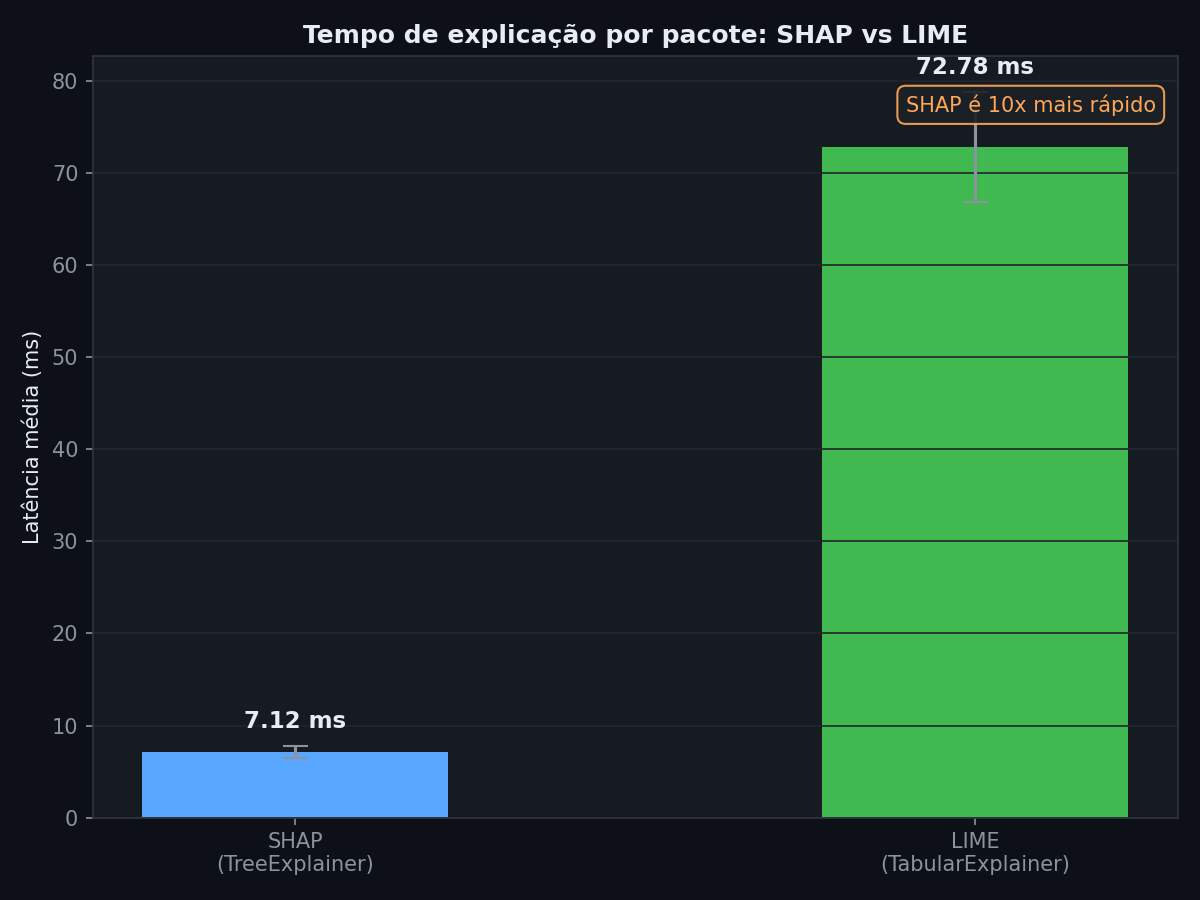
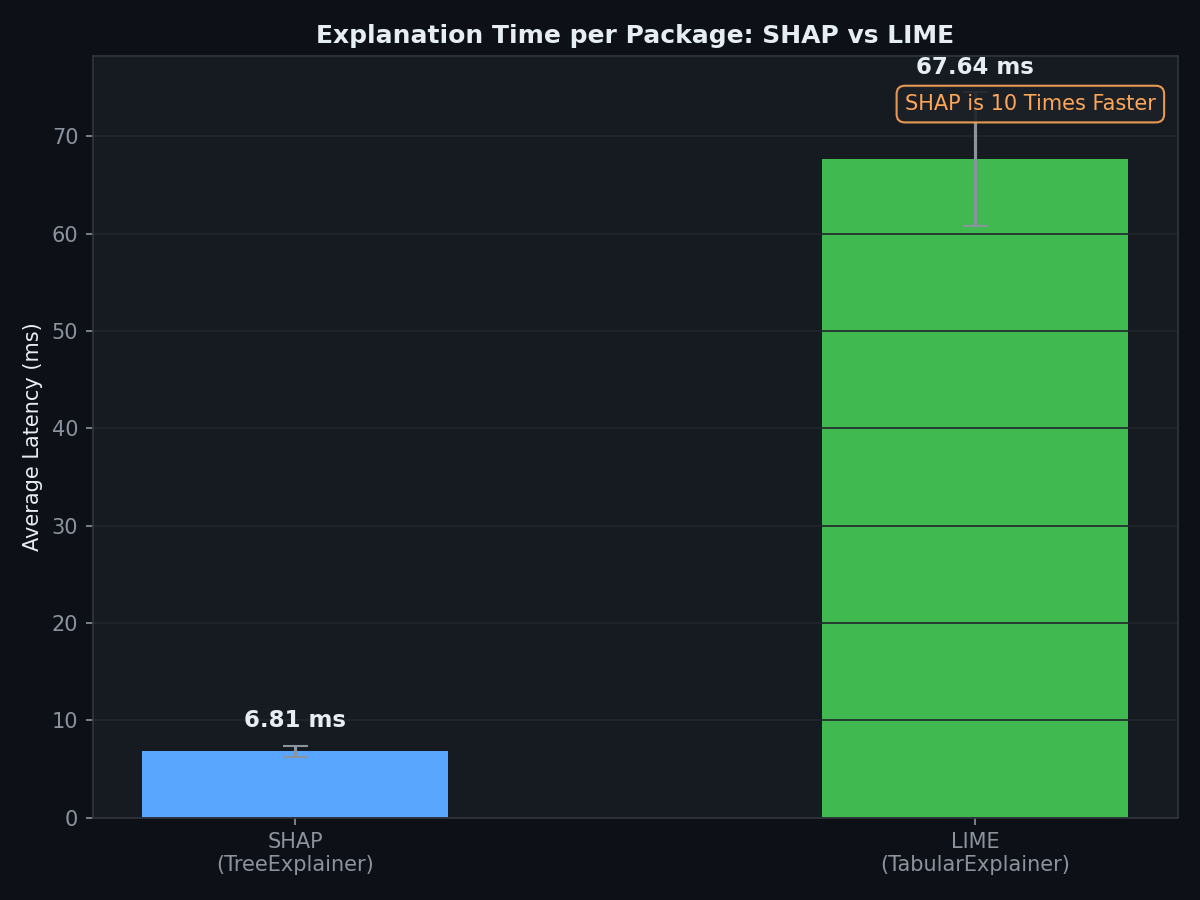
Refactor phase 2 and 3 scripts: update text to English, add new adversarial analysis, and enhance metrics output

diff --git a/fase3_adversarial.py b/fase3_adversarial.py
@@ -1,0 +1,271 @@
+import os, joblib
+import numpy as np
+import pandas as pd
+import shap
+import matplotlib
+matplotlib.use("Agg")
+import matplotlib.pyplot as plt
+import matplotlib.gridspec as gridspec
+import torch
+import torch.nn as nn
+from torch.utils.data import DataLoader, TensorDataset
+from sklearn.metrics import accuracy_score
+from art.estimators.classification import PyTorchClassifier
+from art.attacks.evasion import FastGradientMethod
+
+# ──────────────────────────────────────────────────────────────────────────────
+#  1. CONFIGURAÇÕES INICIAIS E DIRETÓRIOS
+#     Define sementes para reprodutibilidade e garante a pasta de resultados.
+# ──────────────────────────────────────────────────────────────────────────────
+
+os.makedirs("results", exist_ok = True)
+
+RANDOM_STATE = 42
+EPS = 0.05 # Magnitude da perturbação (Epsilon).
+
+# Fixa as sementes para garantir que os resultados sejam consistentes em cada execução.
+torch.manual_seed(RANDOM_STATE)
+np.random.seed(RANDOM_STATE)
+
+# ──────────────────────────────────────────────────────────────────────────────
+#  2. CARREGAMENTO DE DADOS E MODELOS
+#     Recupera o modelo XGBoost e os datasets processados na Fase 1.
+# ──────────────────────────────────────────────────────────────────────────────
+
+model = joblib.load("models/xgb_baseline.pkl")
+top15 = joblib.load("models/top15_features.pkl")
+
+X_train = pd.read_csv("data/processed/X_train.csv")
+X_test = pd.read_csv("data/processed/X_test.csv")
+y_train = pd.read_csv("data/processed/y_train.csv").iloc[:, 0]
+y_test = pd.read_csv("data/processed/y_test.csv").iloc[:, 0]
+
+N_FEATURES = X_train.shape[1]
+
+# ──────────────────────────────────────────────────────────────────────────────
+#  3. DEFINIÇÃO DO MODELO SURROGATE (PyTorch)
+#     O FGSM precisa de gradientes. Como o XGBoost não os fornece, treinamos 
+#     esta rede neuronal (MLP) para imitar o comportamento do classificador.
+# ──────────────────────────────────────────────────────────────────────────────
+
+class SurrogateMLP(nn.Module):
+    def __init__(self, n_features: int):
+        super().__init__()
+        self.net = nn.Sequential(
+            nn.Linear(n_features, 128), nn.ReLU(),
+            nn.Linear(128, 64), nn.ReLU(),
+            nn.Linear(64, 32), nn.ReLU(),
+            nn.Linear(32, 2)
+        )
+
+    def forward(self, x: torch.Tensor) -> torch.Tensor:
+        return self.net(x)
+
+surrogate = SurrogateMLP(N_FEATURES)
+
+# Conversão dos dados para Tensores do PyTorch para treino.
+X_train_t = torch.tensor(X_train.values, dtype = torch.float32)
+y_train_t = torch.tensor(y_train.values, dtype = torch.long)
+X_test_t = torch.tensor(X_test.values, dtype = torch.float32)
+y_test_t = torch.tensor(y_test.values, dtype = torch.long)
+
+train_loader = DataLoader(
+    TensorDataset(X_train_t, y_train_t),
+    batch_size = 256,
+    shuffle = True
+)
+
+# ──────────────────────────────────────────────────────────────────────────────
+#  4. TREINO DO SURROGATE
+#     O objetivo é obter uma acurácia alta (>90%) para garantir a 
+#     transferibilidade dos ataques para o modelo original.
+# ──────────────────────────────────────────────────────────────────────────────
+
+criterion = nn.CrossEntropyLoss()
+optimizer = torch.optim.Adam(surrogate.parameters(), lr = 0.001)
+
+print("A treinar o surrogate MLP (PyTorch)...")
+surrogate.train()
+for epoch in range(20):
+    epoch_loss = 0.0
+    for xb, yb in train_loader:
+        optimizer.zero_grad()
+        loss = criterion(surrogate(xb), yb)
+        loss.backward()
+        optimizer.step()
+        epoch_loss += loss.item()
+    if (epoch + 1) % 5 == 0:
+        print(f"Época {epoch+1:02d}/20 — loss: {epoch_loss/len(train_loader):.4f}")
+
+# Avaliação da performance do surrogate no set de teste.
+surrogate.eval()
+with torch.no_grad():
+    logits = surrogate(X_test_t)
+    surr_preds = logits.argmax(dim = 1).numpy()
+
+surr_acc = accuracy_score(y_test.values, surr_preds)
+print(f"Surrogate accuracy: {surr_acc * 100:.2f}%")
+
+# ──────────────────────────────────────────────────────────────────────────────
+#  5. CONFIGURAÇÃO DO ATAQUE ADVERSARIAL (ART + FGSM)
+#     Utiliza a biblioteca ART para aplicar o Fast Gradient Sign Method.
+# ──────────────────────────────────────────────────────────────────────────────
+
+# Encapsula o modelo PyTorch para ser compatível com a ART.
+art_classifier = PyTorchClassifier(
+    model = surrogate,
+    loss = criterion,
+    optimizer = optimizer,
+    input_shape = (N_FEATURES,),
+    nb_classes = 2,
+    clip_values = (0.0, 1.0) # Garante que os valores permanecem no range do Min-Max Scaler.
+)
+
+# Configura o FGSM para gerar as perturbações baseadas no gradiente.
+fgsm_attack = FastGradientMethod(estimator = art_classifier, eps = EPS)
+print(f"FGSM configurado com eps = {EPS}")
+
+# Seleciona apenas os pacotes que são originalmente classificados como "Ataque".
+attack_indices = np.where(y_test.values == 1)[0]
+X_attacks = X_test.iloc[attack_indices].values.astype(np.float32)
+
+print("A gerar exemplos adversariais com FGSM...")
+X_adv = fgsm_attack.generate(x = X_attacks)
+X_adv = np.clip(X_adv, 0.0, 1.0)
+
+# ──────────────────────────────────────────────────────────────────────────────
+#  6. MÉTRICAS DE EVASÃO E ROBUSTEZ
+#     Verifica se o XGBoost (modelo alvo) é enganado ou se mantém a previsão.
+# ──────────────────────────────────────────────────────────────────────────────
+
+orig_preds = model.predict(X_attacks)
+adv_preds = model.predict(X_adv)
+
+# Identifica ataques que continuam a ser detectados e os que conseguiram evadir.
+still_attack = np.where((orig_preds == 1) & (adv_preds == 1))[0]
+evaded = np.where((orig_preds == 1) & (adv_preds == 0))[0]
+pct_mantidos = len(still_attack) / len(orig_preds) * 100
+pct_evasao = len(evaded) / len(orig_preds) * 100
+
+print(f"Ataques mantidos após FGSM: {len(still_attack)}/{len(orig_preds)} ({pct_mantidos:.1f}%)")
+print(f"Ataques eludidos (evasão): {len(evaded)}/{len(orig_preds)} ({pct_evasao:.1f}%)")
+
+if len(still_attack) == 0:
+    raise ValueError(
+        "Nenhum ataque mantido após FGSM. "
+        "Reduz EPS para 0.01 ou 0.02 e volta a correr."
+    )
+
+# ──────────────────────────────────────────────────────────────────────────────
+#  7. ANÁLISE XAI: SHAP REAL VS ADVERSARIAL
+#     Compara as explicações para um ataque que manteve a classificação original.
+# ──────────────────────────────────────────────────────────────────────────────
+
+shap_explainer = shap.TreeExplainer(model)
+
+# Escolhe o primeiro exemplo onde a classificação "Attack" não mudou.
+idx = still_attack[0]
+x_real = pd.DataFrame(X_attacks[idx:idx+1], columns = top15)
+x_adv = pd.DataFrame(X_adv[idx:idx+1], columns = top15)
+
+shap_real = shap_explainer(x_real)
+shap_adv = shap_explainer(x_adv)
+
+# Extrai as top features para verificar se a explicação foi manipulada.
+top5_real = (
+    pd.Series(np.abs(shap_real.values[0]), index = top15)
+    .sort_values(ascending = False)
+    .head(5)
+)
+top5_adv = (
+    pd.Series(np.abs(shap_adv.values[0]), index = top15)
+    .sort_values(ascending = False)
+    .head(5)
+)
+
+print("\nTop feature REAL: ", top5_real.index[0])
+print("Top feature ADVERSÁRIA: ", top5_adv.index[0])
+
+changed = top5_real.index[0] != top5_adv.index[0]
+print(f"\nExplicação mudou? {'SIM ✅' if changed else 'NÃO — tenta aumentar EPS'}")
+
+prob_real = model.predict_proba(x_real)[0][1]
+prob_adv = model.predict_proba(x_adv)[0][1]
+
+# ──────────────────────────────────────────────────────────────────────────────
+#  8. VISUALIZAÇÃO DOS PAINÉIS SHAP
+#     Cria uma comparação visual entre o pacote real e o manipulado.
+# ──────────────────────────────────────────────────────────────────────────────
+
+def plot_shap_panel(ax, shap_vals, title, title_color, subtitle):
+    """Função auxiliar para desenhar o gráfico de barras SHAP horizontal."""
+    sorted_idx = np.argsort(np.abs(shap_vals))[::-1][:10]
+    feats = [top15[i] for i in sorted_idx]
+    vals = shap_vals[sorted_idx]
+    # Vermelho para valores que empurram para "Attack", azul para o contrário.
+    colors = ["#f85149" if v > 0 else "#58a6ff" for v in vals]
+    
+    ax.barh(
+        range(len(feats)), vals[::-1],
+        color = colors[::-1], edgecolor = "none", height = 0.6
+    )
+    ax.set_yticks(range(len(feats)))
+    ax.set_yticklabels([f[:30] for f in feats[::-1]], color = "#e6edf3", fontsize = 9)
+    ax.set_xlabel("SHAP Value", color = "#8b949e")
+    ax.set_title(
+        f"{title}\n{subtitle}", 
+        color = title_color,
+        fontsize = 12, 
+        fontweight = "bold"
+    )
+    ax.set_facecolor("#161b22")
+    ax.tick_params(colors = "#8b949e")
+    ax.axvline(0, color = "#30363d", linewidth = 1)
+    for spine in ax.spines.values():
+        spine.set_edgecolor("#30363d")
+
+fig = plt.figure(figsize = (18, 7), facecolor = "#0d1117")
+gs = gridspec.GridSpec(1, 2, figure = fig, wspace = 0.35)
+
+plot_shap_panel(
+    fig.add_subplot(gs[0]),
+    shap_real.values[0],
+    "REAL Attack", "#58a6ff",
+    f"Attack ({prob_real*100:.1f}%)"
+)
+plot_shap_panel(
+    fig.add_subplot(gs[1]),
+    shap_adv.values[0],
+    f"ADVERSARIAL Attack (ε = {EPS})", "#f85149",
+    f"Attack ({prob_adv*100:.1f}%) — Manipulated Explanation"
+)
+
+fig.suptitle(
+    "Manipulation of XAI Explanations via FGSM — SHAP Before vs After",
+    color = "#e6edf3", fontsize = 14, fontweight = "bold", y = 1.02
+)
+
+plt.savefig(
+    "results/shap_real_vs_adversarial.png",
+    dpi = 150, facecolor = fig.get_facecolor(), bbox_inches = "tight"
+)
+plt.close()
+print("Guardado: results/shap_real_vs_adversarial.png")
+
+# ──────────────────────────────────────────────────────────────────────────────
+#  9. ARMAZENAMENTO DE ARTEFACTOS
+#     Exporta os dados para CSV para serem usados no benchmarking da Fase 4.
+# ──────────────────────────────────────────────────────────────────────────────
+
+x_real.to_csv("results/x_real_attack.csv", index = False)
+x_adv.to_csv("results/x_adv_attack.csv", index = False)
+
+pd.DataFrame({
+    "feature": top15,
+    "shap_real": shap_real.values[0],
+    "shap_adv": shap_adv.values[0],
+    "abs_real": np.abs(shap_real.values[0]),
+    "abs_adv": np.abs(shap_adv.values[0]),
+}).to_csv("results/shap_real_vs_adv_values.csv", index=False)
+
+print("Artefactos guardados em 'results/'")

diff --git a/fase2_xai.py b/fase2_xai.py
@@ -173,7 +173,7 @@ speedup = lime_mean_ms / shap_mean_ms
 ax.text(
     0.98,
     0.95,
-    f"SHAP é {speedup:.0f}x mais rápido",
+    f"SHAP is {speedup:.0f} Times Faster",
     transform = ax.transAxes,
     ha = "right",
     va = "top",
@@ -188,12 +188,12 @@ ax.text(
 
 # Formata os títulos, cores de texto dos eixos e introduz uma grelha horizontal para melhor visualização dos valores.
 ax.set_ylabel(
-    "Latência média (ms)", 
+    "Average Latency (ms)", 
     color = "#e6edf3"
 )
 
 ax.set_title(
-    "Tempo de explicação por pacote: SHAP vs LIME",
+    "Explanation Time per Package: SHAP vs LIME",
     color = "#e6edf3", 
     fontweight = "bold"
 )
